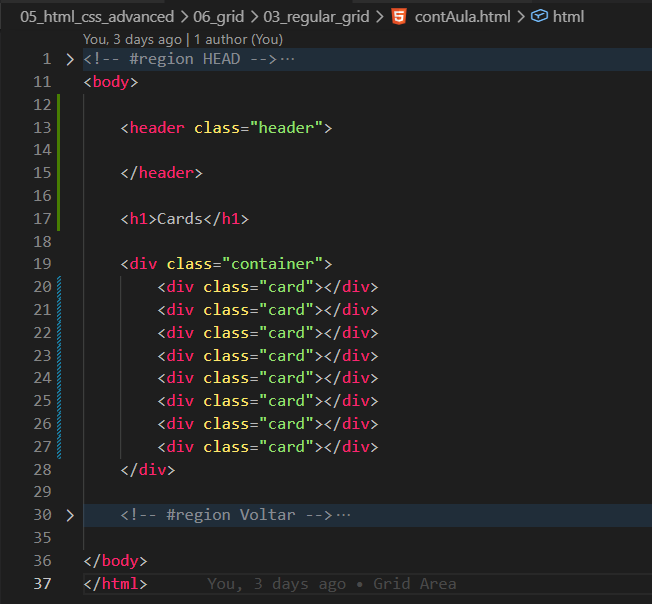
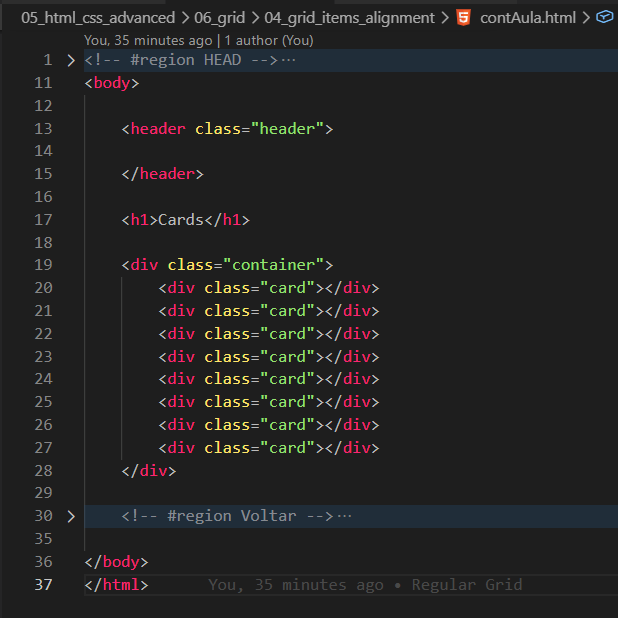
Grid Items Alignment

diff --git a/05_html_css_advanced/06_grid/04_grid_items_alignment/index.html b/05_html_css_advanced/06_grid/04_grid_items_alignment/index.html
@@ -1,9 +1,10 @@
+```html
 <!DOCTYPE html>
 <html lang="pt-br">
 <head>
     <meta charset="UTF-8">
     <meta name="viewport" content="width=device-width, initial-scale=1.0">
-    <title>Title</title>
+    <title>Grid Items Alignment</title>
     <link rel="stylesheet" href="assets/styles/style.css">
     <link rel="preconnect" href="https://fonts.googleapis.com">
     <link rel="preconnect" href="https://fonts.gstatic.com" crossorigin>
@@ -12,8 +13,8 @@
 <body>
 
     <div class="back">
-        <a class="back" href="../">
-            Aula Anterior - 
+        <a class="back" href="../03_regular_grid/index.html">
+            Aula Anterior - Regular Grid
         </a>
     </div>
     
@@ -21,18 +22,18 @@
 
         <article id="intro">
 
-            <h1 id="title">Title</h1>
+            <h1 id="title">Grid Items Alignment</h1>
 
-            <h3 class="intro">Intro</h3>
+            <h3 class="intro">Introdução</h3>
             <p>
-                
+                Agora iremos ver o comportamento dos <strong>grid items</strong> dentro de um <strong>grid container</strong>.
             </p>
 
         </article>
 
         <article class="conteudo">
 
-            <h3 class="cont-title">Codigo de Exemplo:</h3>
+            <h3 class="cont-title">Código de Exemplo:</h3>
 
             <p class="junto">
                 <strong>HTML:</strong>
@@ -54,27 +55,96 @@
                 </picture>
             </figure>
 
+            <p class="junto">
+                <strong>Parte 2 do CSS:</strong>
+            </p>
+
+            <figure>
+                <picture>
+                    <img src="assets/imgs/css_part2.png" alt="CSS Parte 2">
+                </picture>
+            </figure>
+
         </article>
 
         <article class="conc">
 
-            
+            <div class="conteudo">
+
+                <h3 class="junto">grid-template-rows: repeat(2, 180px);</h3>
+                <p>
+                    Usamos essa propriedade para definir a quantidade e o tamanho das linhas do <strong>grid</strong>.
+                </p>
+
+            </div>
+
+            <div class="conteudo">
+                <h3 class="junto">grid-auto-flow: row;</h3>
+                <p>
+                    Usamos para controlar em qual direção os novos itens serão posicionados automaticamente pelo Grid quando eles não possuírem uma posição definida manualmente.
+                </p>
+                <p>
+                    Com <strong>row</strong>, os itens são adicionados primeiro nas linhas e, quando não houver mais espaço, uma nova linha é criada.
+                </p>
+            </div>
+
+            <div class="conteudo">
+                <h3 class="junto">grid-auto-columns:; / grid-auto-rows:;</h3>
+                <p>
+                    Usamos essas propriedades para definir o tamanho das novas colunas ou linhas criadas automaticamente pelo Grid.
+                </p>
+                <p>
+                    Elas são utilizadas principalmente quando o Grid precisa criar colunas ou linhas extras além das definidas em <strong>grid-template-columns</strong> ou <strong>grid-template-rows</strong>.
+                </p>
+            </div>
+
+            <div class="conteudo">
+                <h3 class="junto">justify-items: stretch; / align-items: stretch;</h3>
+                <p>
+                    Essas propriedades controlam o alinhamento dos itens dentro de suas células do Grid.
+                </p>
+                <ul>
+                    <li>
+                        <strong>justify-items</strong> controla o alinhamento horizontal.
+                    </li>
+                    <li>
+                        <strong>align-items</strong> controla o alinhamento vertical.
+                    </li>
+                </ul>
+
+                <p>
+                    O valor padrão é <strong>stretch</strong>, fazendo com que os itens ocupem todo o espaço disponível dentro da célula.
+                </p>
+
+                <p>
+                    Outros valores comuns são:
+                </p>
+
+                <ul>
+                    <li><strong>start</strong> - alinha no início da célula.</li>
+                    <li><strong>center</strong> - centraliza o item.</li>
+                    <li><strong>end</strong> - alinha no final da célula.</li>
+                    <li><strong>stretch</strong> - estica o item para ocupar todo o espaço disponível.</li>
+                </ul>
+            </div>
             
             <a href="contAula.html" style="display: inline-block; padding: 20px; font-weight: bolder; color: red;">
-                Conteudo da aula
+                Conteúdo da aula
             </a>
 
         </article>
         
-         <!-- <h1>Testes JS se necessário</h1> -->
-         <script src="assets/js/jscript.js"></script>
-        </main>
+        <!-- <h1>Testes JS se necessário</h1> -->
+        <script src="assets/js/jscript.js"></script>
+
+    </main>
         
     <div class="next">
-        <a class="next" href="../">
-            Próxima Aula - 
+        <a class="next" href="../../07_landing_portfolio_project/01_recommended_products/index.html">
+            Proximo Modulo: Landing [Portfolio Project] - Aula: Recommended Products
         </a>
     </div>
 
 </body>
 </html>
+```

diff --git a/05_html_css_advanced/06_grid/04_grid_items_alignment/assets/styles/scss/aulaStyle.scss b/05_html_css_advanced/06_grid/04_grid_items_alignment/assets/styles/scss/aulaStyle.scss
@@ -32,43 +32,32 @@ h1 {
 /* #endregion */
 
 .container {
-    --column-count: 1;
-
     border: 3px solid #000;
     padding: 10px 20px;
-
     display: grid;
-    // Aqui estaremos adicionando quantidade de coluna e tamanho
-    grid-template-columns: repeat(var(--column-count), minmax(100px, 1fr));
-    // Distancia entre as linhas
-    row-gap: 20px;
-    // Distancia entre as colunas
-    column-gap: 10px;
 
-    justify-content: center;
-}
+    grid-template-columns: repeat(3, 120px);
+    grid-template-rows: repeat(2, 180px);
+    gap: 20px 10px;
 
-@media (min-width: 300px) {
-    .container {
-        --column-count: 2;
-    }
-}
+    // Controla em qual direção os novos itens serão posicionados automaticamente
+    grid-auto-flow: row;
 
-@media (min-width: 400px) {
-    .container {
-        --column-count: 3;
-    }
-}
+    // Usamos para especificar o tamanho das novas colunas
+    grid-auto-columns: 50px;
+    // Usamos para especificar o tamanho das linhas
+    grid-auto-rows: 100px;
 
-@media (min-width: 500px) {
-    .container {
-        --column-count: auto-fit;
-    }
+    justify-items: stretch;
+    align-items: stretch;
+
+    justify-content: space-evenly;
+    align-items: space-between;
 }
 
 .card {
-    // width: 100px;
-    height: 150px;
+    // width: 50px;
+    // height: 70px;
 
     border: 2px solid #00f;
     background-color: yellowgreen;

diff --git a/05_html_css_advanced/06_grid/04_grid_items_alignment/assets/styles/scss/aulaStyle.css b/05_html_css_advanced/06_grid/04_grid_items_alignment/assets/styles/scss/aulaStyle.css
@@ -29,33 +29,22 @@ h1 {
 
 /* #endregion */
 .container {
-  --column-count: 1;
   border: 3px solid #000;
   padding: 10px 20px;
   display: grid;
-  grid-template-columns: repeat(var(--column-count), minmax(100px, 1fr));
-  row-gap: 20px;
-  column-gap: 10px;
-  justify-content: center;
+  grid-template-columns: repeat(3, 120px);
+  grid-template-rows: repeat(2, 180px);
+  gap: 20px 10px;
+  grid-auto-flow: row;
+  grid-auto-columns: 50px;
+  grid-auto-rows: 100px;
+  justify-items: stretch;
+  align-items: stretch;
+  justify-content: space-evenly;
+  align-items: space-between;
 }
 
-@media (min-width: 300px) {
-  .container {
-    --column-count: 2;
-  }
-}
-@media (min-width: 400px) {
-  .container {
-    --column-count: 3;
-  }
-}
-@media (min-width: 500px) {
-  .container {
-    --column-count: auto-fit;
-  }
-}
 .card {
-  height: 150px;
   border: 2px solid #00f;
   background-color: yellowgreen;
 }
